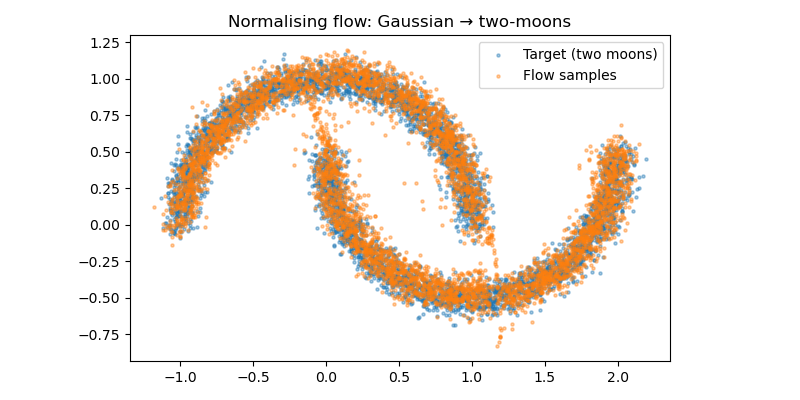
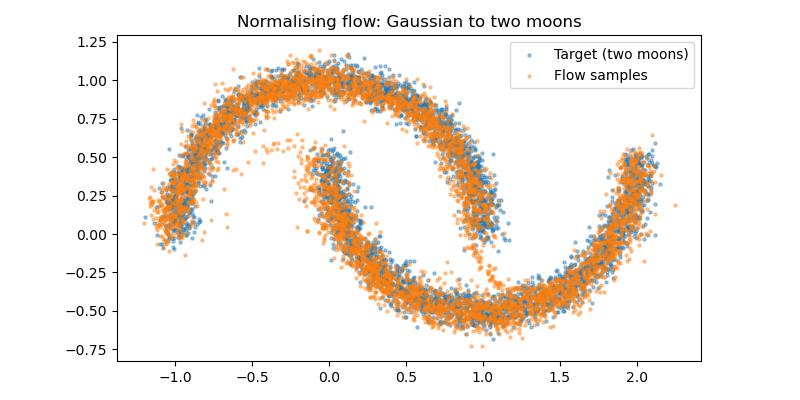
two moons code 2

diff --git a/_posts/2025-11-21-blog-post-4.md b/_posts/2025-11-21-blog-post-4.md
@@ -145,6 +145,9 @@ where $$T$$ is the same translation function as before and $$S$$ is a scaling fu
 # Code example
 
 ## Gaussian to two moons
+We will use a normalising flow to fit the two moons dataset in [sklearn.dataset](https://scikit-learn.org/stable/modules/generated/sklearn.datasets.make_moons.html.).
+
+I have included the code below. 
 
 ```python
 import numpy as np
@@ -298,7 +301,7 @@ ax.scatter(x_data[:, 0], x_data[:, 1], s=5, alpha=0.4, label="Target (two moons)
 ax.scatter(x_samp[:, 0], x_samp[:, 1], s=5, alpha=0.4, label="Flow samples")
 ax.set_aspect("equal", "box")
 ax.legend()
-ax.set_title("Normalising flow: Gaussian to two-moons")
+ax.set_title("Normalising flow: Gaussian to two moons")
 plt.tight_layout()
 plt.savefig('two_moons_plot.png')
 plt.show()
